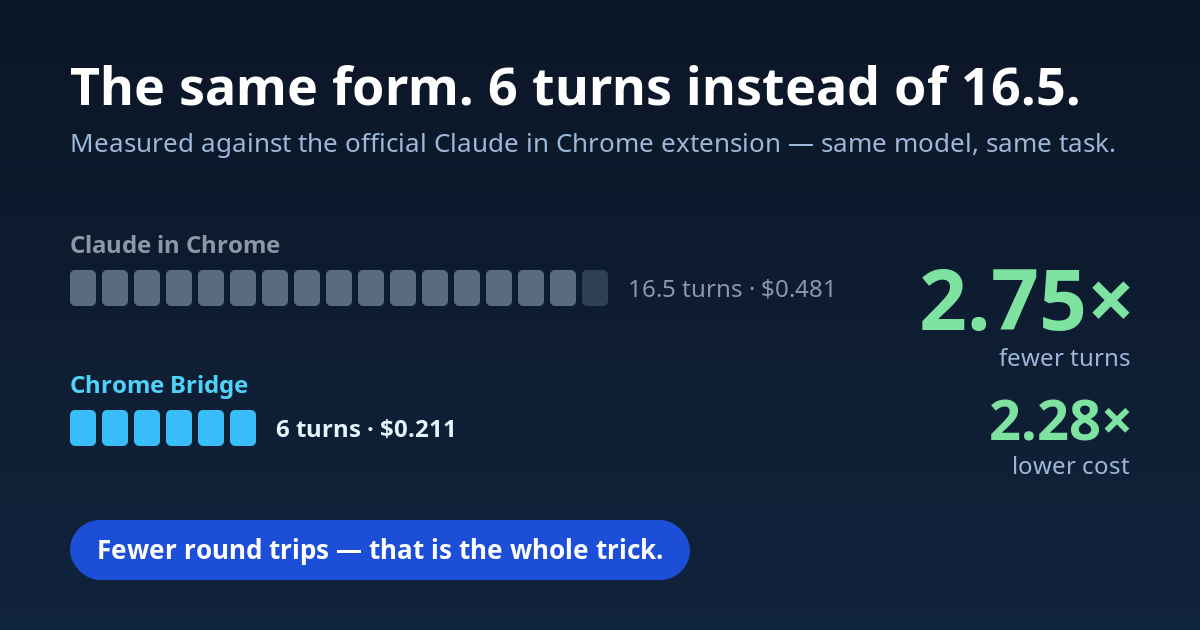
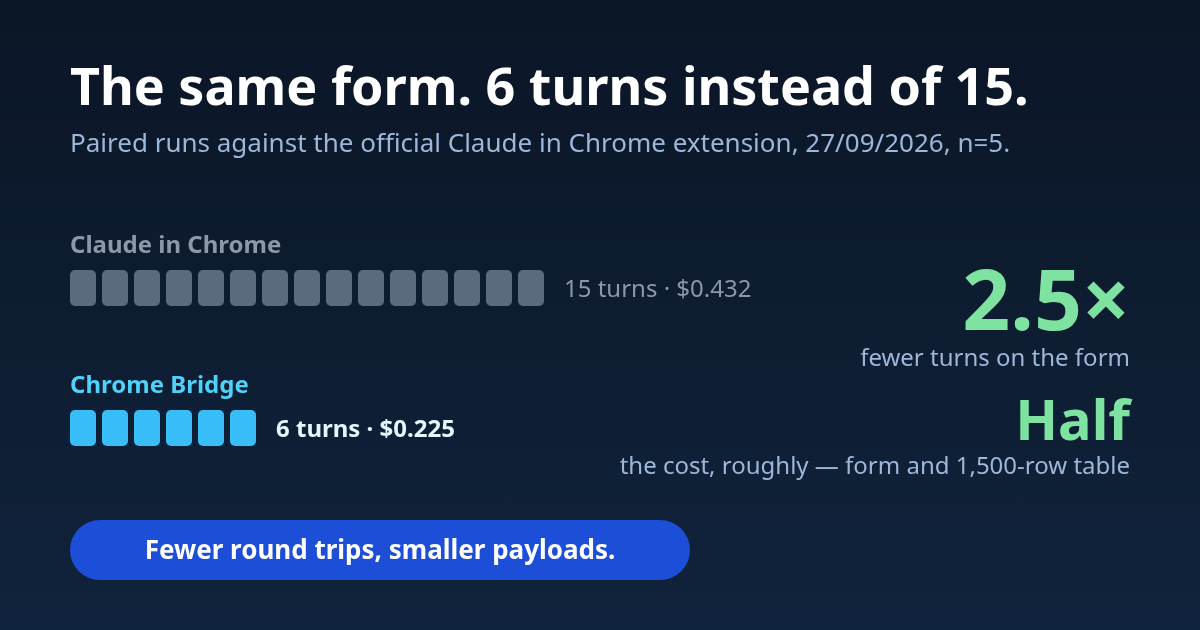
docs: README card, site and npm description cite the 27/09 paired benchmark
2.5x fewer turns on the form, about half the cost on both tasks; the table
lookup's 1.17x turns stated wherever turns are cited per task. card1-race.png
re-rendered from its SVG with Chromium and Noto Sans, the font of the old PNG.

diff --git a/docs/index.html b/docs/index.html
@@ -4,7 +4,7 @@
 <meta charset="utf-8">
 <meta name="viewport" content="width=device-width, initial-scale=1">
 <title>Chrome Bridge for Claude Code — your real, logged-in Chrome</title>
-<meta name="description" content="An MCP server that gives Claude Code your real, logged-in Chrome: 60 browser automation tools over a local WebSocket. Measured 2.75× fewer turns than the official Claude in Chrome extension. Self-hosted, no accounts, ChromeOS included.">
+<meta name="description" content="An MCP server that gives Claude Code your real, logged-in Chrome: 60 browser automation tools over a local WebSocket. Measured against the official Claude in Chrome extension: 2.5× fewer turns on a form and about half the cost (paired runs, 27/09/2026). Self-hosted, no accounts, ChromeOS included.">
 <link rel="canonical" href="https://www.francescosorrentino.com/plugins/chrome-bridge">
 <meta property="og:title" content="Chrome Bridge for Claude Code">
 <meta property="og:description" content="60 browser automation tools over a local WebSocket. Your real Chrome, where you are already logged in. Self-hosted, no accounts.">
@@ -230,24 +230,24 @@ footer .container { display: flex; flex-wrap: wrap; gap: 0.5rem 1.5rem; justify-
 
 <section class="alt">
     <div class="container">
-        <h2 class="section-title">The same form, in 6 turns instead of 16.5.</h2>
-        <p class="section-lead">Measured against the official “Claude in Chrome” extension — same model, same task. It wins on round trips, not payload size: <code>navigate</code> already returns element refs, so <code>click(ref="n1")</code> follows with no discovery turn in between, and <code>fill_form</code> fills N fields in one call.</p>
+        <h2 class="section-title">The same form, in 6 turns instead of 15.</h2>
+        <p class="section-lead">Paired runs against the official “Claude in Chrome” extension — same model, same day, n=5 per task (27/09/2026). On a form it wins on round trips: <code>navigate</code> already returns element refs, and <code>fill_form</code> fills N fields, submits and reports the result in one call. On a 1,500-row table the turns are about even (6 against 7) and it wins on payload: <code>extract_table</code> filters server-side and returns 0.2 KB instead of 40 KB of page text.</p>
         <div class="split">
             <div class="art">
-                <svg class="sk" viewBox="0 0 300 150" width="300" height="150" role="img" aria-label="Chart: Claude in Chrome 16.5 turns and $0.481; Chrome Bridge 6 turns and $0.211">
+                <svg class="sk" viewBox="0 0 300 150" width="300" height="150" role="img" aria-label="Chart: Claude in Chrome 15 turns and $0.432; Chrome Bridge 6 turns and $0.225">
                     <text class="sk-label" x="0" y="16">Claude in Chrome</text>
-                    <rect class="sk-bar" x="0" y="24" width="220" height="20" rx="4"/>
-                    <text class="sk-num" x="228" y="39">16.5</text>
-                    <text class="sk-label" x="0" y="62">turns · $0.481</text>
+                    <rect class="sk-bar" x="0" y="24" width="200" height="20" rx="4"/>
+                    <text class="sk-num" x="208" y="39">15</text>
+                    <text class="sk-label" x="0" y="62">turns · $0.432</text>
                     <text class="sk-label sk-label--acc" x="0" y="96">Chrome Bridge</text>
                     <rect class="sk-bar sk-bar--acc" x="0" y="104" width="80" height="20" rx="4"/>
                     <text class="sk-num sk-num--acc" x="88" y="119">6</text>
-                    <text class="sk-label" x="0" y="142">turns · $0.211</text>
+                    <text class="sk-label" x="0" y="142">turns · $0.225</text>
                 </svg>
             </div>
             <div class="cards">
-                <div class="card"><p class="card__n">turns</p><h3>2.75× fewer</h3><p>Round trips between the model and the browser, on the same form-filling task.</p></div>
-                <div class="card"><p class="card__n">cost</p><h3>2.28× lower</h3><p>Per task. Per single turn it actually costs slightly more — the saving is in not needing the turn.</p></div>
+                <div class="card"><p class="card__n">turns</p><h3>2.5× fewer</h3><p>Round trips between the model and the browser, on the form. On the table lookup: 1.17×.</p></div>
+                <div class="card"><p class="card__n">cost</p><h3>About half</h3><p>Per task, on both: 1.9× lower on the form, 2.3× on the table. On the form each turn costs slightly more — the saving is in not needing the turn.</p></div>
             </div>
         </div>
         <p class="note">Method, every raw run including the unfavourable ones, and what the harness cannot measure: <a href="https://github.com/frsorrentino/chrome-bridge/blob/main/docs/EFFICIENCY.md">docs/EFFICIENCY.md</a>. Competitor figures measured on 2026-09-01 and 2026-09-11.</p>

diff --git a/README.md b/README.md
@@ -17,7 +17,7 @@ web-development tools (navigation, DOM inspection, visual regression, audits,
 network mocking) over a local WebSocket bridge, plus a headless instance for
 CI. Self-hosted, local-only. Works on ChromeOS.
 
-![The same form filled in 6 turns instead of 16.5 — 2.75× fewer turns, 2.28× lower cost](assets/readme/card1-race.png)
+![The same form filled in 6 turns instead of 15 — 2.5× fewer turns on the form, about half the cost on the form and on a 1,500-row table (paired runs, 27/09/2026, n=5)](assets/readme/card1-race.png)
 
 ## Quickstart
 
